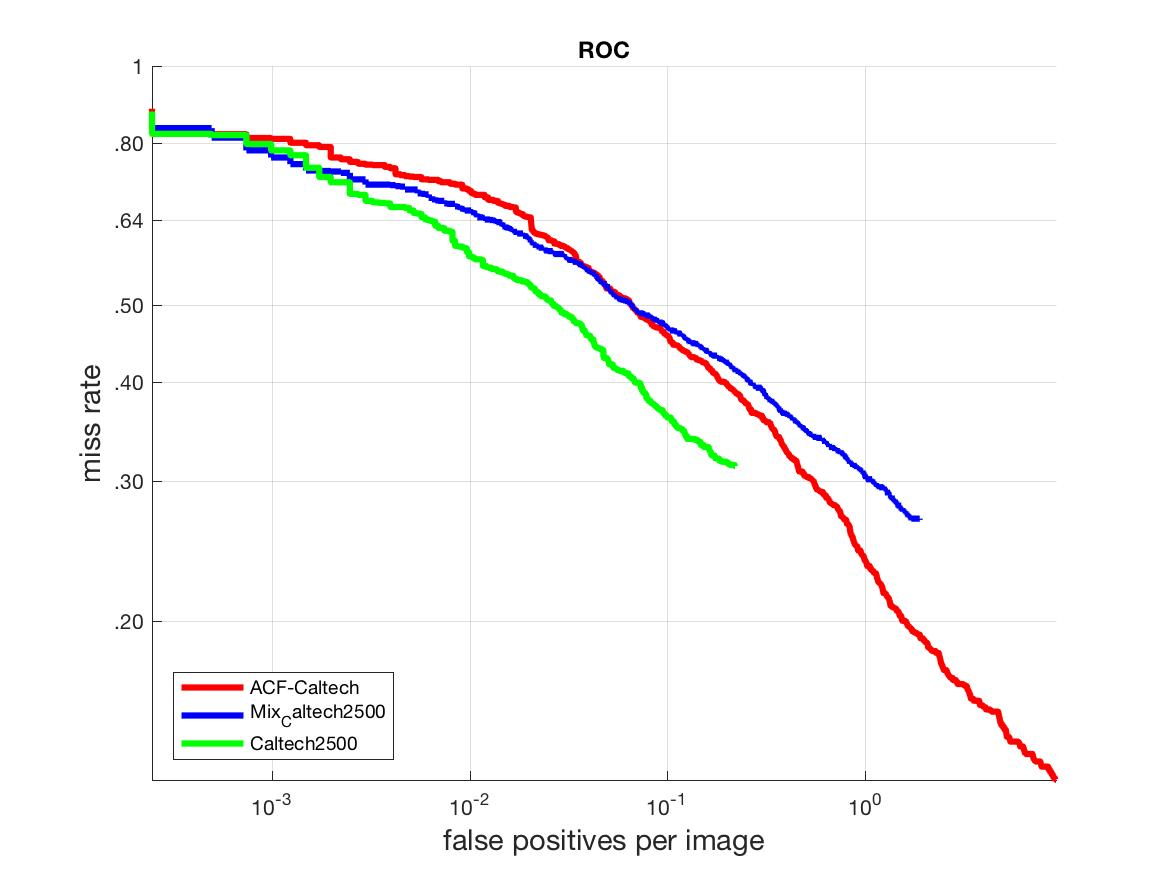
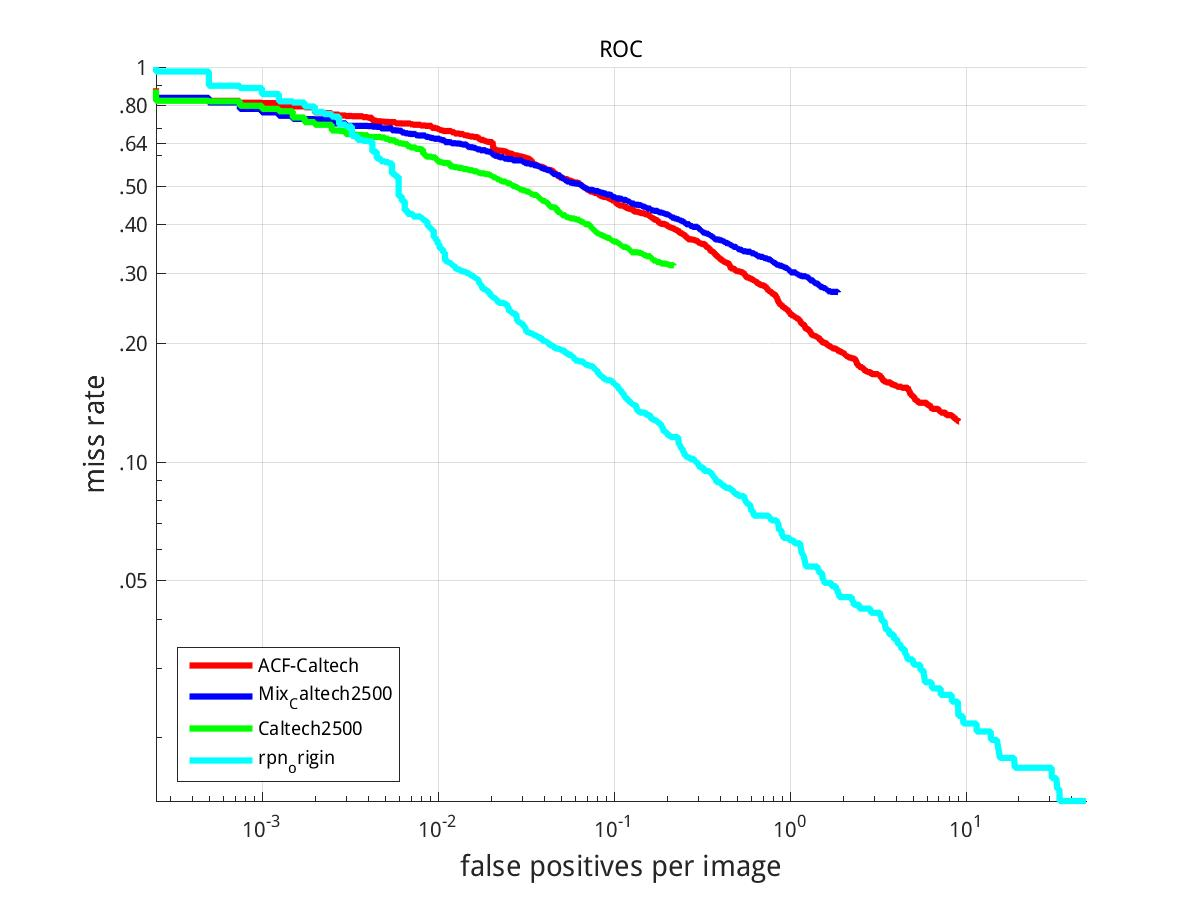
update

diff --git a/evaCaltech.m b/evaCaltech.m
@@ -4,11 +4,12 @@ p = genpath('../../DATA/code3.2.1');
 addpath(p);
 clear all
 close all
-resDir = '/Users/shiyuhuang/Downloads/ATOCAR/DATA/Caltech/res/';
+resDir = '../../DATA/Caltech/res/';
 resfiles = {'ev-Reasonable-ACF-Caltech.mat',...
             'ev-Mix_Caltech2500.mat',...
-            'ev-Caltech2500.mat'};
-types = {'r-','b-','g-'};
+            'ev-Caltech2500.mat',...
+            'ev-rpn_origin.mat'};
+types = {'r-','b-','g-','c-'};
 
 n = length(resfiles);
 assert(n == length(types));
